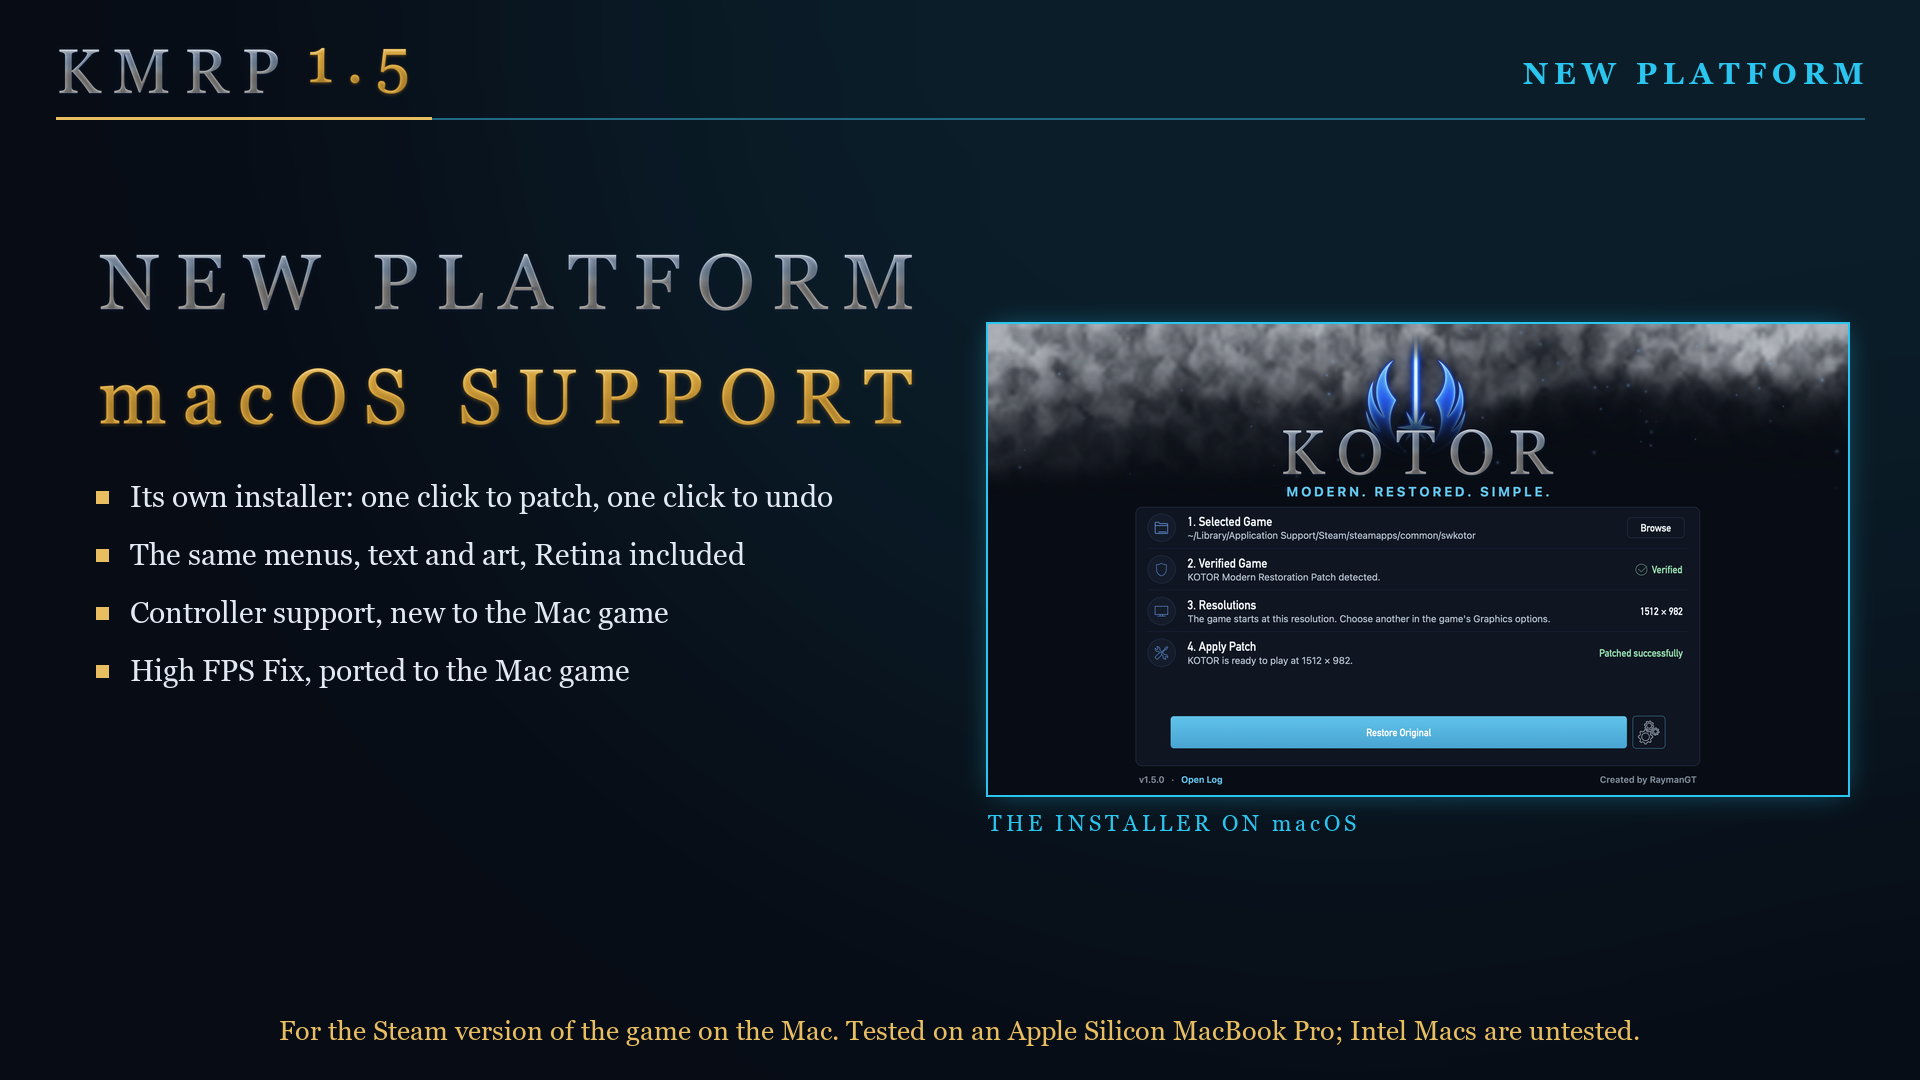
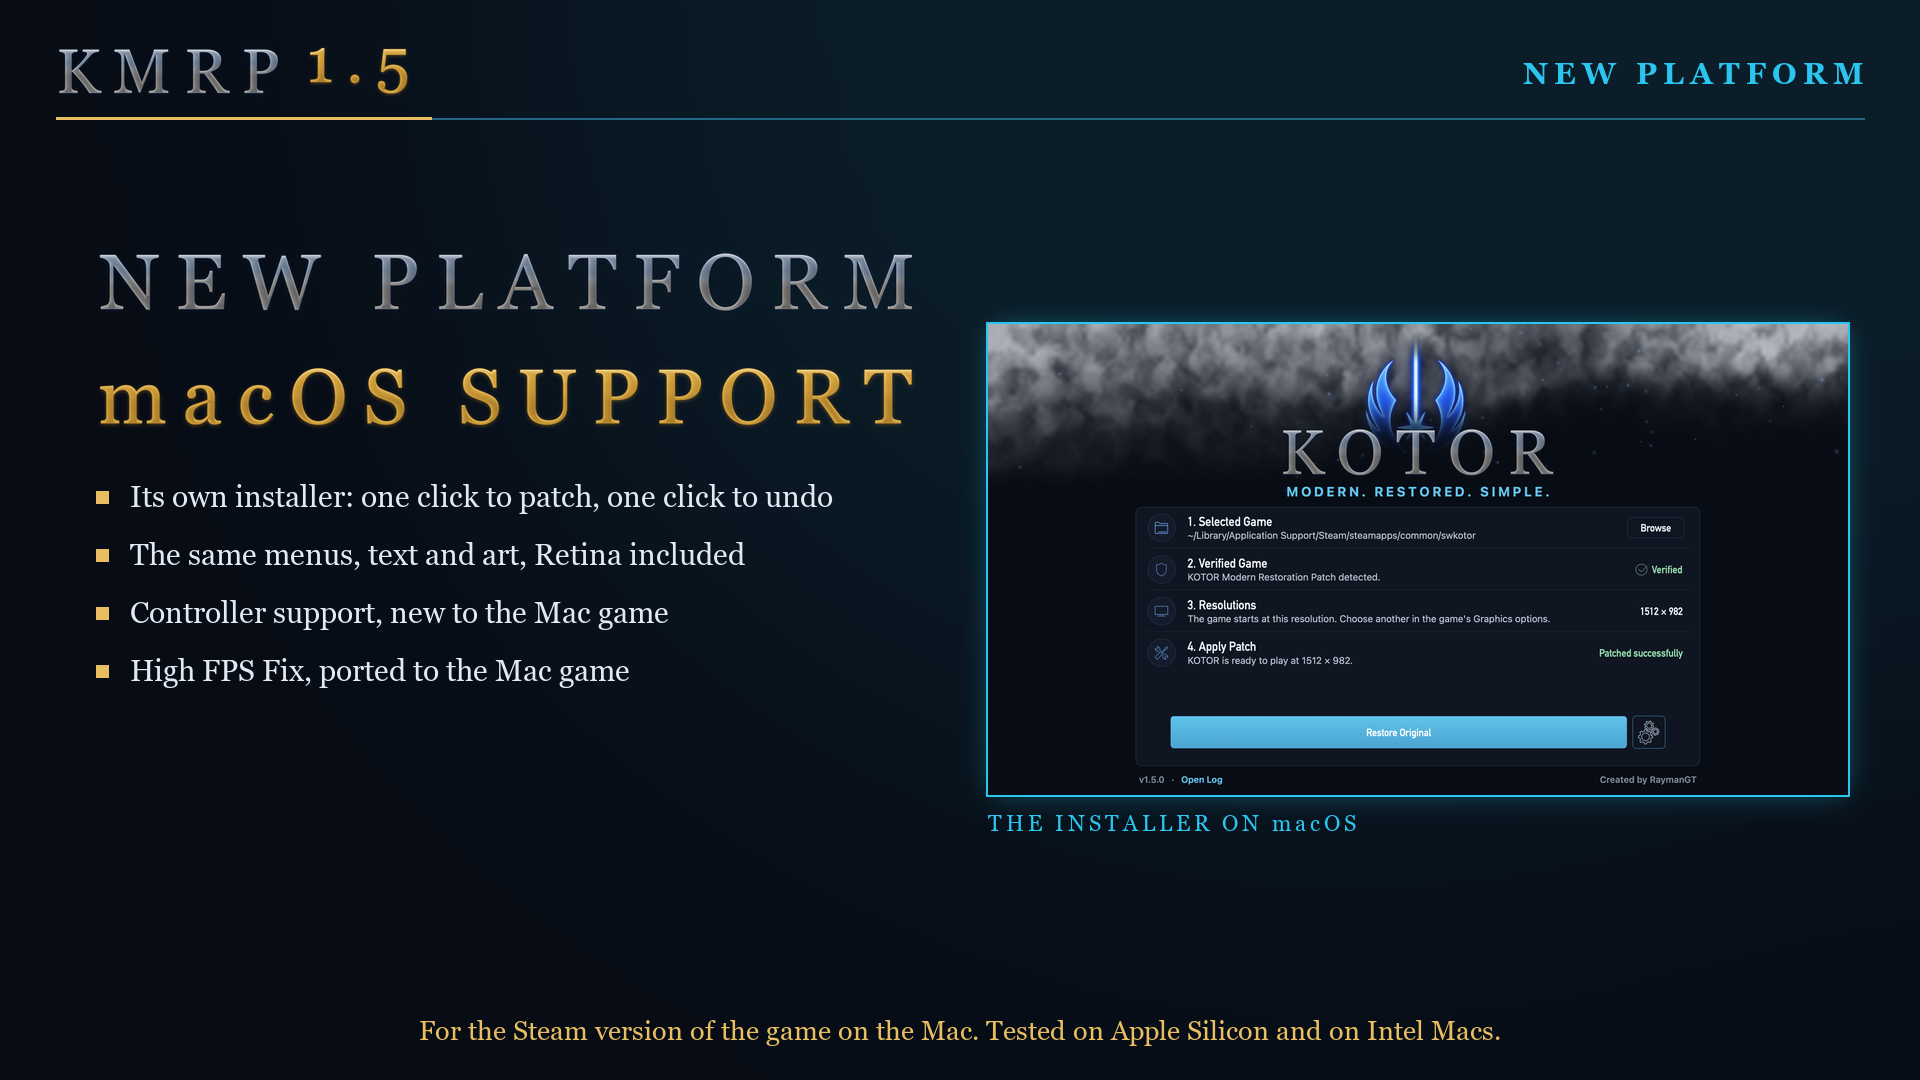
Press kit cut to twelve pages; the Mac on Intel and Apple Silicon; captions
The kit is the cover and eleven pages, in the order to show them; thirteen
further pages of the same kinds are removed. The equipment comparison is
page 06 and the ultrawide Xbox HUD page 10. The controller menus page says
it is shown with an Xbox pad and that other pads get their own buttons. The
README's pictures use pages that are in the kit.

The Mac version is reported working on Intel and Apple Silicon Macs: README,
docs/features.md and the macOS card say so, and macos/README.md records the
report beside its measurements.

Changed region(s): [[0.1562, 0.9472, 0.8438, 0.9778]]

diff --git a/tools/build_release_shots.py b/tools/build_release_shots.py
@@ -58,11 +58,12 @@ OUT = Path("releases/v1.5.0/press-kit")      # with 01-cover.png, which build_re
 # are KMRP at 1920x1080 and 3440x1440, v960 and v1200 the original interface at
 # 1280x960 and 1600x1200; "-pad" is the frame as the pad left it.
 PAGES = (
-    # The maintainer's order of 2026-10-09: 01 is the cover (build_release_cover.py), 02 to 10
-    # the pages a post leads with, and the rest follow. A page whose screenshot is not in
-    # the folder is skipped and named; nothing stands in for it.
+    # The maintainer's order of 2026-10-09: 01 is the cover (build_release_cover.py) and 02 to
+    # 12 are these. The kit had thirteen more pages of the same kinds (the other menus at
+    # both sizes, four more Mac pages) until he cut it to twelve that day; their entries are
+    # in this file's history. A page whose screenshot is not in the folder is skipped.
     ("02-new-platform-macos", "card", "NEW PLATFORM",
-     "For the Steam version of the game on the Mac. Tested on an Apple Silicon MacBook Pro; Intel Macs are untested.",
+     "For the Steam version of the game on the Mac. Tested on Apple Silicon and on Intel Macs.",
      (("mac-installer", "THE INSTALLER ON macOS"),)),
     ("03-macos-character", "solo", "NEW IN 1.5: macOS",
      "The same menus and text on the Mac, with controller support, which the Mac game does not have on its own.",
@@ -73,70 +74,28 @@ PAGES = (
     ("05-inventory-1080p", "pair", "INVENTORY",
      "Rows, icons and text sized for the screen. HD item icons. Nothing cut off.",
      (("v960-inventory", "1280x960"), ("k1080-inventory", "1920x1080"))),
-    ("06-inventory-ultrawide", "wide", "INVENTORY, ULTRAWIDE",
-     "21:9 has its own menus: not stretched, not letterboxed.",
-     (("v1200-inventory", "1600x1200"), ("k1440-inventory", "3440x1440"))),
-    ("07-4k", "solo", "4K",
-     "On a 4K television the display and its text are made for 3840x2160, not enlarged.",
-     (("k2160-game", "3840x2160"),)),      # the maintainer's frame from a 4K television; it reached the repo reduced to 2000x1125
-    ("08-controller-xbox-hud", "solo", "CONTROLLER: XBOX-STYLE HUD",
-     "New in 1.5. With a pad the display is laid out like the Xbox game's; touch the mouse and the PC display is back.",
-     (("k1080-paused-pad", "1920x1080"),)),
-    ("09-controller-menus", "grid", "CONTROLLER: EVERY MENU",
-     "Button pictures for Xbox, PlayStation and Switch pads on every screen. They go away when you use the mouse.",
-     (("k1080-inventory-pad", "INVENTORY"), ("k1080-character-pad", "CHARACTER"),
-      ("k1080-journal-pad", "JOURNAL"), ("k1080-map-pad", "AREA MAP"))),
-    ("10-controller-layout", "solo", "CONTROLLER: LAYOUT SCREEN",
-     "New in 1.5. Options, Gameplay, Controller Layout shows what every button does, drawn for your pad.",
-     (("k1440-layout-pad", "3440x1440"),)),
-    ("11-equipment-1080p", "pair", "EQUIPMENT",
+    ("06-equipment-1080p", "pair", "EQUIPMENT",
      "The whole screen is used. Every slot and every row in its place.",
      (("v960-equip", "1280x960"), ("k1080-equip", "1920x1080"))),
-    ("12-area-map-1080p", "pair", "AREA MAP",
-     "The map fills its frame, fog covers all of it, and markers are where you click.",
-     (("v960-map", "1280x960"), ("k1080-map", "1920x1080"))),
-    ("13-abilities-1080p", "pair", "ABILITIES",
-     "Skills, powers and feats with icons and descriptions you can read.",
-     (("v960-abilities", "1280x960"), ("k1080-abilities", "1920x1080"))),
-    ("14-character-1080p", "pair", "CHARACTER",
-     "Text drawn sharp for the resolution, not enlarged from a small picture.",
-     (("v960-character", "1280x960"), ("k1080-character", "1920x1080"))),
-    ("15-journal-1080p", "pair", "JOURNAL",
-     "Lists keep their rows, and long text stays inside its box.",
-     (("v960-journal", "1280x960"), ("k1080-journal", "1920x1080"))),
-    ("16-hud-1080p", "pair", "IN THE GAME",
-     "Widescreen without stretching, with the display scaled to the screen.",
-     (("v960-hud", "1280x960"), ("k1080-hud", "1920x1080"))),
-    ("17-equipment-ultrawide", "wide", "EQUIPMENT, ULTRAWIDE",
-     "Every resolution your display has is in the game's own list.",
-     (("v1200-equip", "1600x1200"), ("k1440-equip", "3440x1440"))),
-    ("18-area-map-ultrawide", "wide", "AREA MAP, ULTRAWIDE",
-     "The map and its markers, sized for 3440x1440.",
-     (("v1200-map", "1600x1200"), ("k1440-map", "3440x1440"))),
-    ("19-abilities-ultrawide", "wide", "ABILITIES, ULTRAWIDE",
-     "From 4:3 to 32:9, the menus are made for the shape of the screen.",
-     (("v1200-abilities", "1600x1200"), ("k1440-abilities", "3440x1440"))),
-    ("20-hud-ultrawide", "wide", "IN THE GAME, ULTRAWIDE",
-     "The game starts at your display's resolution. Nothing to set up.",
-     (("v1200-hud", "1600x1200"), ("k1440-hud", "3440x1440"))),
-    ("21-controller-xbox-hud-ultrawide", "solo", "CONTROLLER: XBOX-STYLE HUD, ULTRAWIDE",
+    ("07-inventory-ultrawide", "wide", "INVENTORY, ULTRAWIDE",
+     "21:9 has its own menus: not stretched, not letterboxed.",
+     (("v1200-inventory", "1600x1200"), ("k1440-inventory", "3440x1440"))),
+    ("08-4k", "solo", "4K",
+     "On a 4K television the display and its text are made for 3840x2160, not enlarged.",
+     (("k2160-game", "3840x2160"),)),      # the maintainer's frame from a 4K television; it reached the repo reduced to 2000x1125
+    ("09-controller-xbox-hud", "solo", "CONTROLLER: XBOX-STYLE HUD",
+     "New in 1.5. With a pad the display is laid out like the Xbox game's; touch the mouse and the PC display is back.",
+     (("k1080-paused-pad", "1920x1080"),)),
+    ("10-controller-xbox-hud-ultrawide", "solo", "CONTROLLER: XBOX-STYLE HUD, ULTRAWIDE",
      "Action menu, target, party and minimap in the corners, the pause notice with your pad's trigger.",
      (("k1440-paused-pad", "3440x1440"),)),
-    ("22-macos-installer", "solo", "NEW IN 1.5: macOS",
-     "The Mac has its own installer, for the Steam version of the game: one click to patch, one click to undo.",
-     (("mac-installer", "THE INSTALLER ON macOS"),)),
-    ("23-macos-options", "solo", "NEW IN 1.5: macOS",
-     "The same options as on Windows. High FPS Fix switches itself on where the display runs above 60 Hz.",
-     (("mac-settings", "THE INSTALLER ON macOS"),)),
-    ("24-macos-map", "solo", "NEW IN 1.5: macOS",
-     "The area map and its fixes on a MacBook Pro, with the buttons of the pad in use.",
-     (("mac-map", "macOS  1512x982"),)),
-    ("25-macos-screens", "solo", "NEW IN 1.5: macOS",
-     "In the game, the map, the options, equipment, inventory and character on a MacBook Pro.",
-     (("mac-screens", "macOS  SIX SCREENS AT 1512x982"),)),
-    ("26-4k-menu", "solo", "4K",
-     "Connect another display and the game offers that display's resolutions.",
-     (("k2160-menu", None),)),
+    ("11-controller-menus", "grid", "CONTROLLER: EVERY MENU",
+     "Shown with an Xbox pad. Pick up a PlayStation, Switch or Steam Deck pad and the buttons on screen change to match.",
+     (("k1080-inventory-pad", "INVENTORY"), ("k1080-character-pad", "CHARACTER"),
+      ("k1080-journal-pad", "JOURNAL"), ("k1080-map-pad", "AREA MAP"))),
+    ("12-controller-layout", "solo", "CONTROLLER: LAYOUT SCREEN",
+     "New in 1.5. Options, Gameplay, Controller Layout shows what every button does, drawn for your pad.",
+     (("k1440-layout-pad", "3440x1440"),)),
 )
 
 

diff --git a/releases/v1.5.0/press-kit/README.md b/releases/v1.5.0/press-kit/README.md
@@ -4,7 +4,7 @@ Release art for KMRP 1.5 (2026-10-09, Windows and macOS): the cover and the page
 for mod pages, posts and articles. Use them as they are; please do not crop a frame
 out of its page without saying what it shows.
 
-The first ten are the set to lead with, in this order.
+The first twelve are the set to lead with, in this order.
 
 | File | What |
 | --- | --- |
@@ -13,31 +13,15 @@ The first ten are the set to lead with, in this order.
 | [`03-macos-character.png`](03-macos-character.png) | macOS: the Character screen with a pad, 1512x982 |
 | [`04-linux-proton.png`](04-linux-proton.png) | Linux: tested on Ubuntu with Proton |
 | [`05-inventory-1080p.png`](05-inventory-1080p.png) | Inventory: the original game at 1280x960 beside KMRP at 1920x1080 |
-| [`06-inventory-ultrawide.png`](06-inventory-ultrawide.png) | Inventory, ultrawide: the original at 1600x1200 above KMRP at 3440x1440 |
-| [`07-4k.png`](07-4k.png) | 4K: in the game, 3840x2160 |
-| [`08-controller-xbox-hud.png`](08-controller-xbox-hud.png) | Controller: the Xbox-style HUD, 1920x1080 |
-| [`09-controller-menus.png`](09-controller-menus.png) | Controller: button pictures on every menu |
-| [`10-controller-layout.png`](10-controller-layout.png) | Controller: the Controller Layout screen |
+| [`06-equipment-1080p.png`](06-equipment-1080p.png) | Equipment: the original game at 1280x960 beside KMRP at 1920x1080 |
+| [`07-inventory-ultrawide.png`](07-inventory-ultrawide.png) | Inventory, ultrawide: the original at 1600x1200 above KMRP at 3440x1440 |
+| [`08-4k.png`](08-4k.png) | 4K: in the game, 3840x2160 |
+| [`09-controller-xbox-hud.png`](09-controller-xbox-hud.png) | Controller: the Xbox-style HUD, 1920x1080 |
+| [`10-controller-xbox-hud-ultrawide.png`](10-controller-xbox-hud-ultrawide.png) | Controller: the Xbox-style HUD, 3440x1440 |
+| [`11-controller-menus.png`](11-controller-menus.png) | Controller: button pictures on every menu |
+| [`12-controller-layout.png`](12-controller-layout.png) | Controller: the Controller Layout screen |
 
-More pages of the same kinds:
 
-| File | What |
-| --- | --- |
-| [`11-equipment-1080p.png`](11-equipment-1080p.png) | Equipment, 1080p comparison |
-| [`12-area-map-1080p.png`](12-area-map-1080p.png) | Area map, 1080p comparison |
-| [`13-abilities-1080p.png`](13-abilities-1080p.png) | Abilities, 1080p comparison |
-| [`14-character-1080p.png`](14-character-1080p.png) | Character, 1080p comparison |
-| [`15-journal-1080p.png`](15-journal-1080p.png) | Journal, 1080p comparison |
-| [`16-hud-1080p.png`](16-hud-1080p.png) | In the game, 1080p comparison |
-| [`17-equipment-ultrawide.png`](17-equipment-ultrawide.png) | Equipment, ultrawide comparison |
-| [`18-area-map-ultrawide.png`](18-area-map-ultrawide.png) | Area map, ultrawide comparison |
-| [`19-abilities-ultrawide.png`](19-abilities-ultrawide.png) | Abilities, ultrawide comparison |
-| [`20-hud-ultrawide.png`](20-hud-ultrawide.png) | In the game, ultrawide comparison |
-| [`21-controller-xbox-hud-ultrawide.png`](21-controller-xbox-hud-ultrawide.png) | Controller: the Xbox-style HUD, 3440x1440 |
-| [`22-macos-installer.png`](22-macos-installer.png) | macOS: the installer after patching |
-| [`23-macos-options.png`](23-macos-options.png) | macOS: the installer's Advanced Settings |
-| [`24-macos-map.png`](24-macos-map.png) | macOS: the area map with a pad, 1512x982 |
-| [`25-macos-screens.png`](25-macos-screens.png) | macOS: six screens on one sheet |
 
 ## How they were made
 

diff --git a/README.md b/README.md
@@ -287,8 +287,8 @@ Aspyr build on Steam, made from the same resources as this one: the same interfa
 every resolution, fonts, art and engine fixes, and controller support, which the Mac game
 does not have on its own. How to install it is in the package's own README
 ([macos/PLAYER-README.md](macos/PLAYER-README.md)); what it writes, byte for byte, and what
-was and was not tested is in [macos/README.md](macos/README.md). Tested on one Mac, a 14"
-MacBook Pro with Apple Silicon; Intel Macs are untested.
+was and was not tested is in [macos/README.md](macos/README.md). Tested on Apple
+Silicon and on Intel Macs.
 Its two patch files, `KMRP-macOS.kpatch` and
 `KOTOR 1 Native Controller Mod + Xbox HUD (macOS).kpatch`, work on the Mac game only, and
 the Windows files named above on Windows only.
@@ -396,7 +396,7 @@ is shown at the largest size it offers on that monitor.
 
 Rows, icons and stack counts scale with the text, and the screen is used.
 
-<img src="releases/v1.5.0/press-kit/12-area-map-1080p.png" alt="Area map: the original game at 1280x960 beside KMRP 1.5 at 1920x1080" width="100%">
+<img src="releases/v1.5.0/press-kit/13-area-map-1080p.png" alt="Area map: the original game at 1280x960 beside KMRP 1.5 at 1920x1080" width="100%">
 
 The map fills its frame, fog reaches the edge, and the notes sit clear of the
 buttons.
@@ -404,17 +404,17 @@ buttons.
 It holds at 21:9 as well: every resolution is made from the same rules, not
 hand-tuned one at a time.
 
-<img src="releases/v1.5.0/press-kit/06-inventory-ultrawide.png" alt="Inventory: the original game at 1600x1200 above KMRP 1.5 at 3440x1440" width="100%">
+<img src="releases/v1.5.0/press-kit/07-inventory-ultrawide.png" alt="Inventory: the original game at 1600x1200 above KMRP 1.5 at 3440x1440" width="100%">
 
 **New in 1.5: controller support.** With a pad the display is laid out like the
 Xbox game's, every menu shows the buttons of the pad in your hands, and a new
 screen under Options, Gameplay shows what each one does.
 
-<img src="releases/v1.5.0/press-kit/08-controller-xbox-hud.png" alt="The Xbox-style HUD with a controller, KMRP 1.5 at 1920x1080" width="100%">
+<img src="releases/v1.5.0/press-kit/09-controller-xbox-hud.png" alt="The Xbox-style HUD with a controller, KMRP 1.5 at 1920x1080" width="100%">
 
-<img src="releases/v1.5.0/press-kit/10-controller-layout.png" alt="The Controller Layout screen, KMRP 1.5 at 3440x1440" width="100%">
+<img src="releases/v1.5.0/press-kit/12-controller-layout.png" alt="The Controller Layout screen, KMRP 1.5 at 3440x1440" width="100%">
 
-<img src="releases/v1.5.0/press-kit/09-controller-menus.png" alt="Controller button pictures on the Inventory, Character, Journal and Area Map screens" width="100%">
+<img src="releases/v1.5.0/press-kit/11-controller-menus.png" alt="Controller button pictures on the Inventory, Character, Journal and Area Map screens" width="100%">
 
 **New in 1.5: macOS.** The Steam version of the game on the Mac has its own
 installer and the same menus, text and controller support.

diff --git a/docs/features.md b/docs/features.md
@@ -260,8 +260,7 @@ Mac game has no controller support at all without KMRP.
 - **The game is set to start full screen.**
 - **The dialogue's reply list fills the bar at the bottom** of a conversation.
 - **Needs** the unmodified Steam version of the game, macOS 10.13 or later, and
-  Rosetta 2 on an Apple Silicon Mac. Tested on one Apple Silicon Mac; Intel Macs
-  are untested.
+  Rosetta 2 on an Apple Silicon Mac. Tested on Apple Silicon and on Intel Macs.
 
 **Windows only:** the fix for Windows display scaling, the extra memory for the GOG
 and disc versions, the NVIDIA setting, Modern Driver Compatibility, the mouse kept
@@ -275,6 +274,6 @@ not need.
 | Windows, Steam version | Yes |
 | Windows, GOG version | Yes |
 | Windows, disc version 1.03 | Yes |
-| macOS, Steam version | Yes, since KMRP 1.5, with a separate installer (`KMRP-macOS-1.5.0.dmg`); tested on one Apple Silicon Mac, Intel Macs untested. See [macos/PLAYER-README.md](../macos/PLAYER-README.md) and [macos/README.md](../macos/README.md). |
+| macOS, Steam version | Yes, since KMRP 1.5, with a separate installer (`KMRP-macOS-1.5.0.dmg`); tested on Apple Silicon and on Intel Macs. See [macos/PLAYER-README.md](../macos/PLAYER-README.md) and [macos/README.md](../macos/README.md). |
 | Linux with Proton | Tested by the maintainer on Ubuntu, with the stable Proton and with Proton Experimental: it installed and played. Other distributions are untested. See [linux-proton-steam-deck.md](linux-proton-steam-deck.md). |
 | Steam Deck | Not tested on the device. It uses the same Proton, so it is expected to work the same way, and the Deck's controls are among the pads KMRP knows. |

diff --git a/CHANGELOG.md b/CHANGELOG.md
@@ -110,6 +110,12 @@ proxy, and it applies the executable changes above as well.
 
 ## [Unreleased]
 
+- **Documents: the Mac version works on Intel and on Apple Silicon Macs** (2026-10-09, the
+  maintainer's report: both tried). `README.md`, `docs/features.md` and the press kit's
+  macOS card said "Intel Macs untested" and now say both were tested. `macos/README.md`
+  keeps its measurements, all from the M5 MacBook Pro, and records the report with what it
+  does not include (the Intel model, its macOS version, what was played).
+
 - **Documents: Linux with Proton told apart from the Steam Deck** (2026-10-08). The
   maintainer ran a development build of 1.5 on Ubuntu under the stable Proton and
   under Proton Experimental, and it worked; the platform lists (`README.md`,

diff --git a/macos/README.md b/macos/README.md
@@ -1204,7 +1204,9 @@ revision of this document of 2026-10-08.
   buttons to their label from 100 px in both builds' code);
 - pressing Play in the Steam client itself. Aspyr's launcher, which Steam starts, was tested
   with the edited `KOTOR_Exe`, so the bundle seal is not checked on that path;
-- Intel Macs;
+- Intel Macs, by measurement. The maintainer reported on 2026-10-09 that the package works on
+  an Intel Mac as on an Apple Silicon one, both tried; the Intel model, its macOS version and
+  what was played were not recorded, and nothing in this document was measured there;
 - a game with other Override mods installed first;
 - the controller's rumble in combat (hits, parries, shots, damage taken), and any rumble felt
   on a real pad: the scripted pad has no motors;
